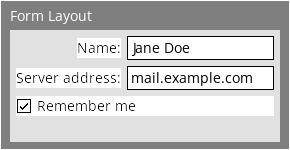
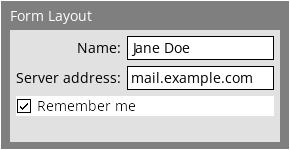
Fix #118 - Form labels share the form's background

Changed region(s): [[0.031, 0.4533, 0.4345, 0.5867], [0.2483, 0.24, 0.4345, 0.4]]

diff --git a/pushrod-sdl2/examples/form_layout.rs b/pushrod-sdl2/examples/form_layout.rs
@@ -44,6 +44,9 @@ const WIDE: u32 = 520;
 /// The form's height, in pixels.
 const FORM_H: u32 = 300;
 
+/// The form's background, which its labels share.
+const FORM_COLOR: Color = Color::RGBA(225, 225, 225, 255);
+
 /// The settings rows: a label and the field's starting text.
 const ROWS: [(&str, &str); 4] = [
     ("Display name:", "Jane Doe"),
@@ -97,13 +100,18 @@ pub fn main() -> Result<(), pushrod::error::Error> {
     );
     let mut panel = Panel::new().at(20, 60).size(NARROW, FORM_H);
 
-    panel.set_color(Color::RGBA(225, 225, 225, 255));
+    panel.set_color(FORM_COLOR);
 
     let form = engine.add_widget(panel);
     let mut rows = Vec::with_capacity(ROWS.len());
 
     for (label, text) in ROWS {
-        let label = engine.add_child_widget(form, Text::new(label));
+        let mut label = Text::new(label);
+
+        // Labels share the form's background, so they read as text drawn on the form.
+        label.set_color(FORM_COLOR);
+
+        let label = engine.add_child_widget(form, label);
         let field = engine.add_child_widget(form, TextField::new().size(140, 24).with_text(text));
 
         rows.push((label, field));

diff --git a/pushrod-sdl2/examples/gallery.rs b/pushrod-sdl2/examples/gallery.rs
@@ -608,7 +608,12 @@ pub fn main() -> Result<(), pushrod::error::Error> {
         ("Name:", "Jane Doe"),
         ("Server address:", "mail.example.com"),
     ] {
-        let label = engine.add_child_widget(sheet, Text::new(label));
+        let mut label = Text::new(label);
+
+        // Labels share the form's background, so they read as text drawn on the form.
+        label.set_color(Color::RGBA(225, 225, 225, 255));
+
+        let label = engine.add_child_widget(sheet, label);
         let field = engine.add_child_widget(sheet, TextField::new().size(100, 24).with_text(text));
 
         form_layout.add_row(label, field);
